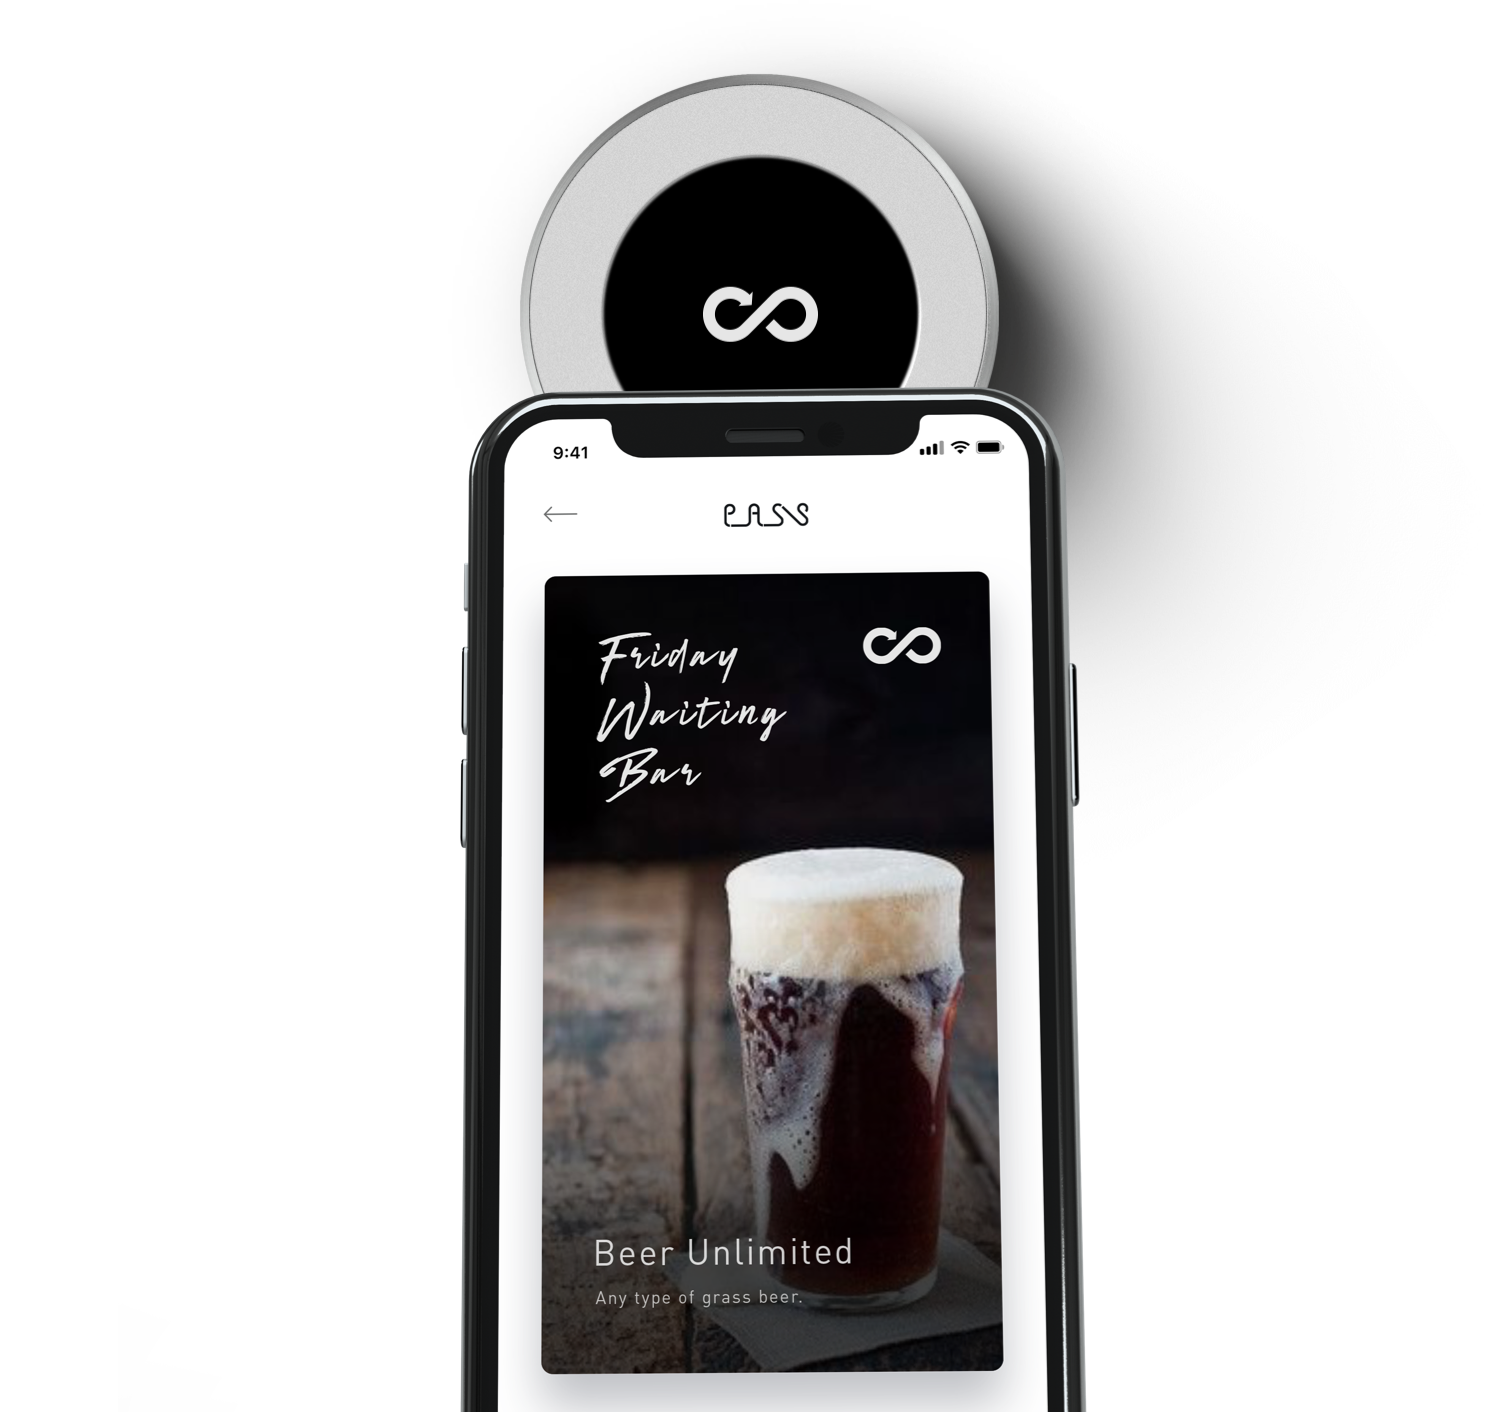
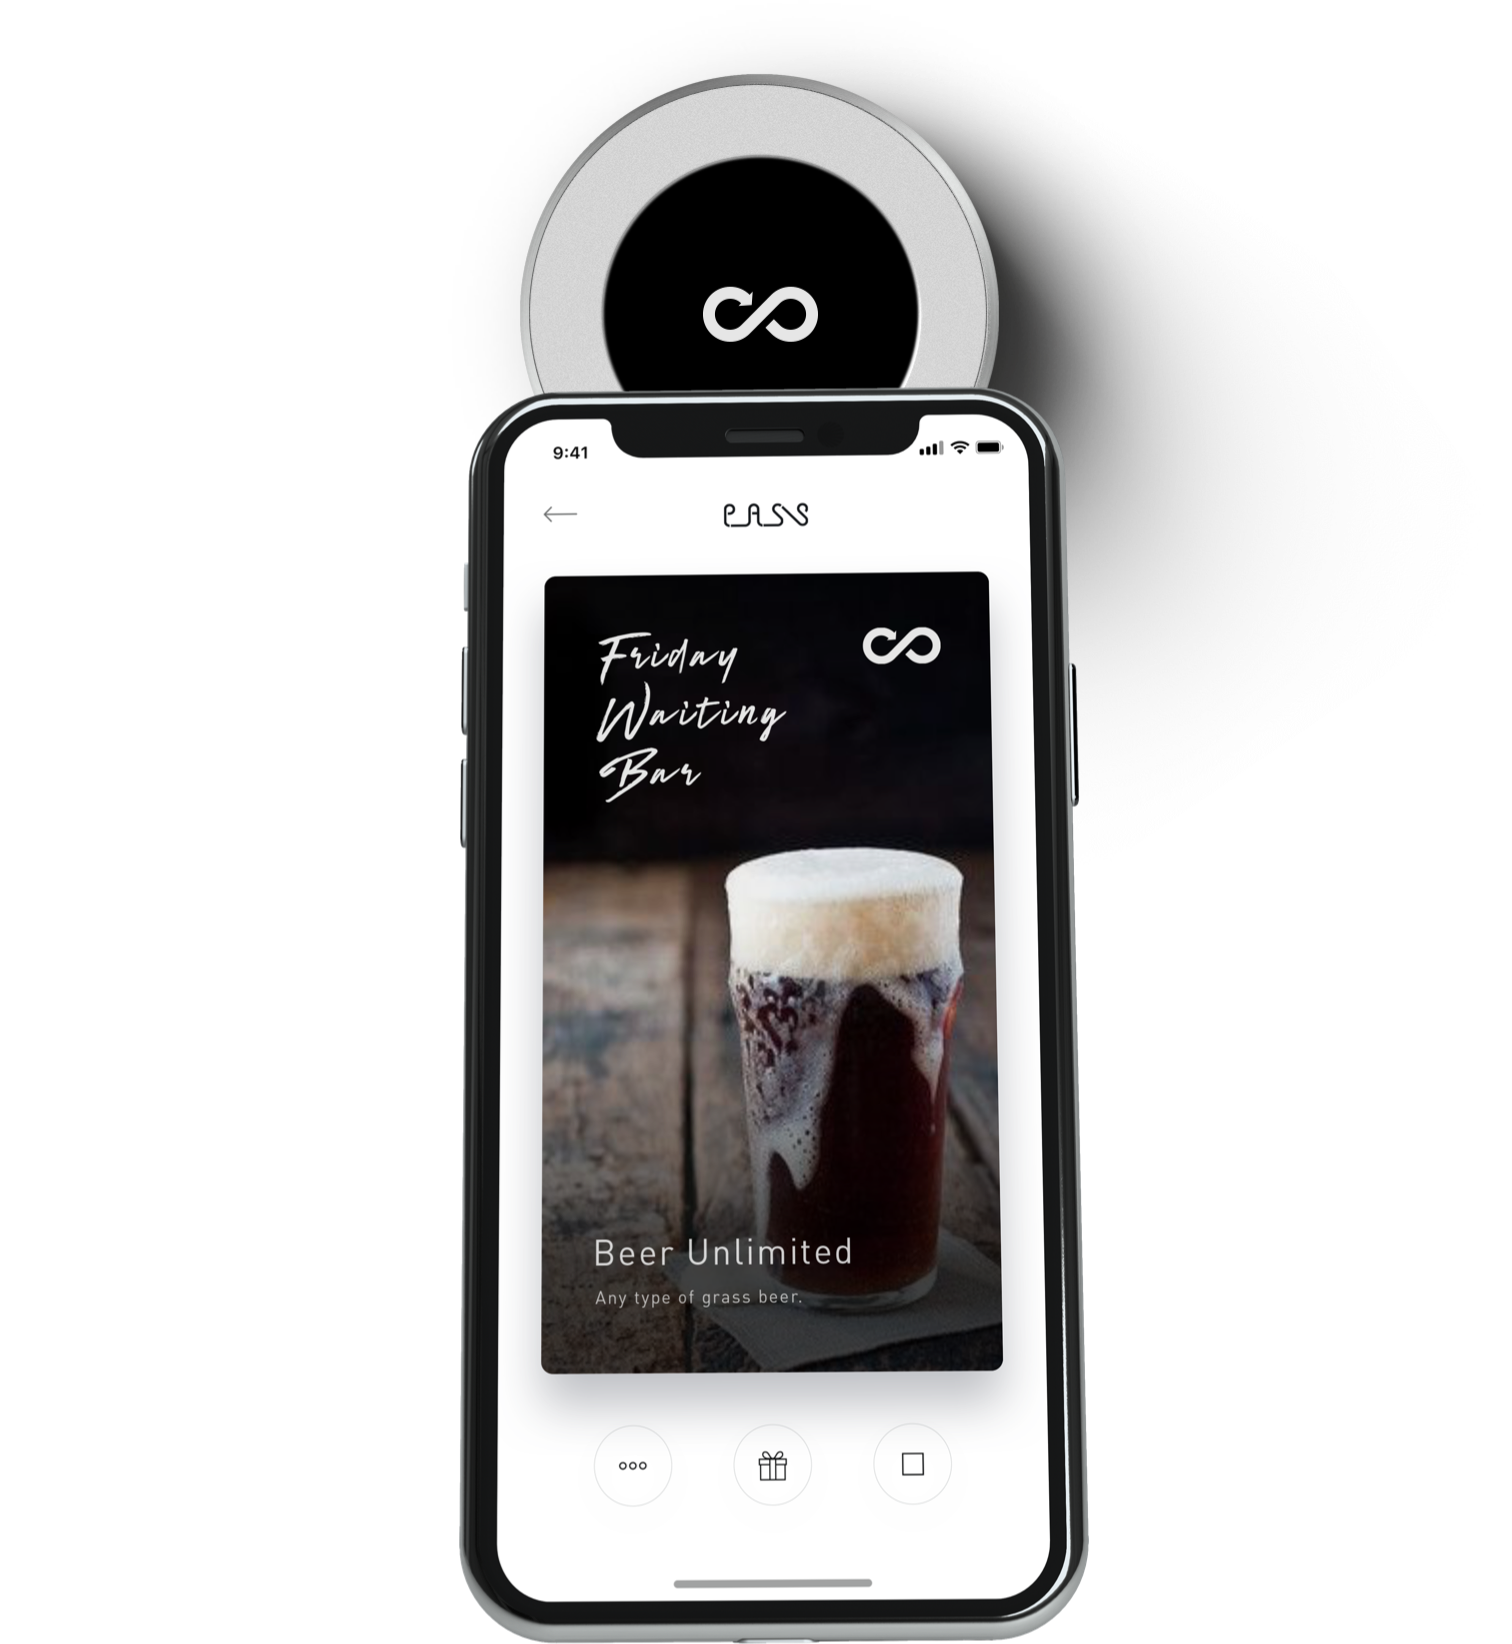
f

diff --git a/css/slides.css b/css/slides.css
@@ -6369,7 +6369,7 @@ html:not(.page-loaded) .dialog {
 }
 
 .iphone-6.shiftImage {
-  margin: 0 0 -46%;
+  margin: 0 0 -62%;
 }
 
 .ipad-6.shiftImage {
